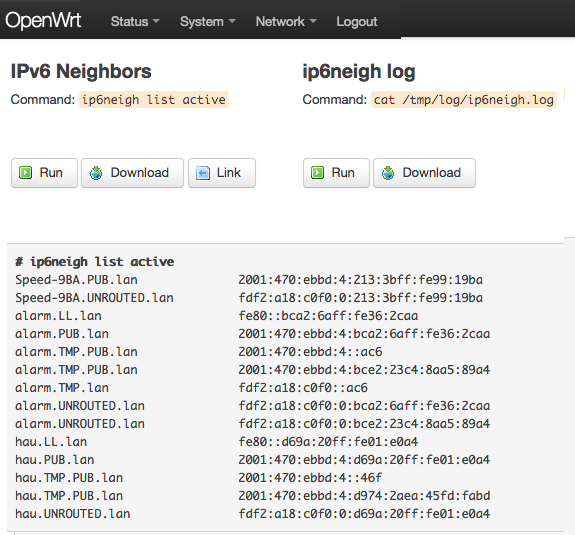
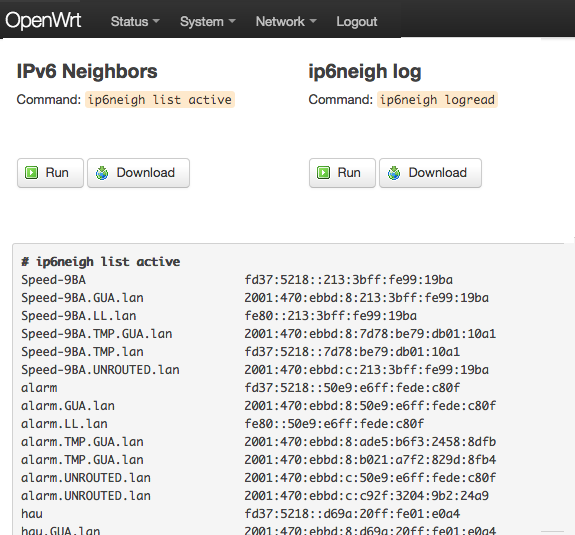
Updated host show graphic, and text in Doc

diff --git a/README.md b/README.md
@@ -187,6 +187,27 @@ It is possible to see the host file via the LuCI web interface by using luci-app
 
 	```
 
+<!---
+root@Palolo:~# ip6neigh list active
+Speed-9BA                      fd37:5218::213:3bff:fe99:19ba
+Speed-9BA.GUA.lan              2001:470:ebbd:8:213:3bff:fe99:19ba
+Speed-9BA.LL.lan               fe80::213:3bff:fe99:19ba
+Speed-9BA.TMP.GUA.lan          2001:470:ebbd:8:7d78:be79:db01:10a1
+Speed-9BA.TMP.lan              fd37:5218::7d78:be79:db01:10a1
+Speed-9BA.UNROUTED.lan         2001:470:ebbd:c:213:3bff:fe99:19ba
+alarm                          fd37:5218::50e9:e6ff:fede:c80f
+alarm.GUA.lan                  2001:470:ebbd:8:50e9:e6ff:fede:c80f
+alarm.LL.lan                   fe80::50e9:e6ff:fede:c80f
+alarm.TMP.GUA.lan              2001:470:ebbd:8:ade5:b6f3:2458:8dfb
+alarm.TMP.GUA.lan              2001:470:ebbd:8:b021:a7f2:829d:8fb4
+alarm.UNROUTED.lan             2001:470:ebbd:c:50e9:e6ff:fede:c80f
+alarm.UNROUTED.lan             2001:470:ebbd:c:c92f:3204:9b2:24a9
+hau                            fd37:5218::d69a:20ff:fe01:e0a4
+hau.GUA.lan                    2001:470:ebbd:8:d69a:20ff:fe01:e0a4
+hau.LL.lan                     fe80::d69a:20ff:fe01:e0a4
+
+--->
+
 ## Using DNS Labels
 `ip6neigh` uses DNS labels, which can be thought of as subdomains for the top level domain `lan`. Example DNS labels (in bold) that `ip6neigh` use are:
 
